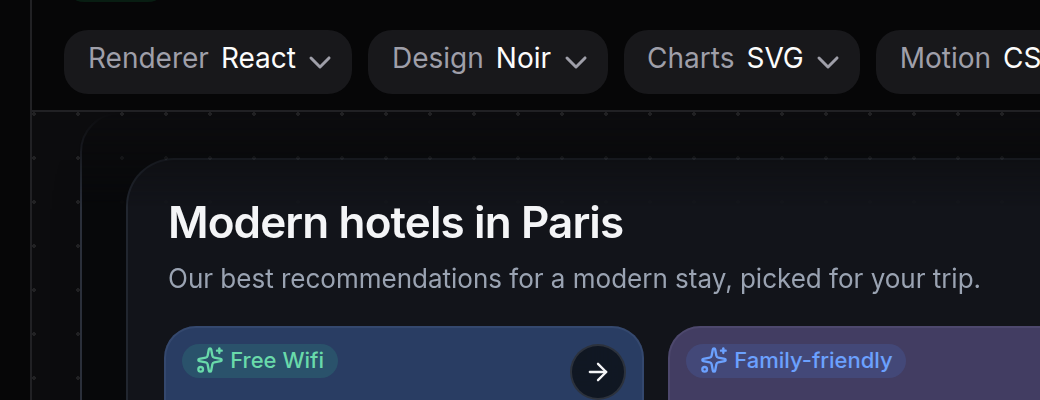
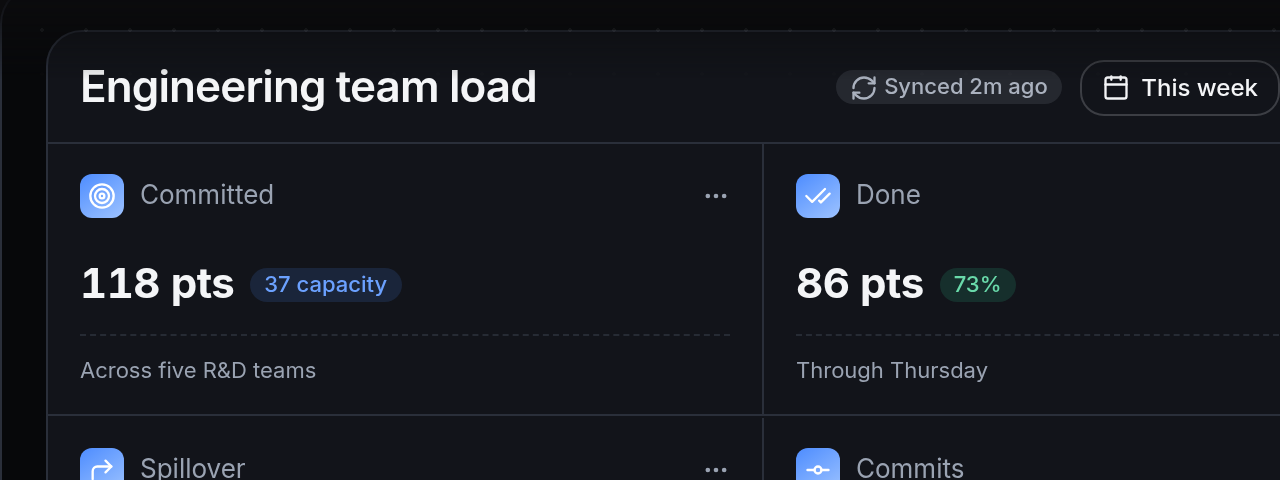
Refine Live Playground promo to match the reference card
Use the Dashboards demo as the preview, restore shiny sparkles and the
purple curve arrow, and switch the title to “Try it in Live Playground”.

diff --git a/apps/playground/src/ui/LivePlaygroundPromo.tsx b/apps/playground/src/ui/LivePlaygroundPromo.tsx
@@ -1,5 +1,5 @@
 import { ExternalLink } from "lucide-react"
-import { useState, type KeyboardEvent, type MouseEvent } from "react"
+import { useId, useState, type KeyboardEvent, type MouseEvent } from "react"
 
 /** Configurable target for the promo CTA. Prefer `onOpen` in-app; `href` for an external tab. */
 export const LIVE_PLAYGROUND_PROMO = {
@@ -20,9 +20,101 @@ export interface LivePlaygroundPromoProps {
   href?: string
 }
 
+/** Pair of shiny sparkles matching the reference promo. */
+function PromoSparks(props: { className?: string }) {
+  const id = useId().replace(/:/g, "")
+  const fill = `pg-promo-spark-${id}`
+  return (
+    <svg
+      viewBox="0 0 22 18"
+      width="18"
+      height="15"
+      className={props.className}
+      fill="none"
+      aria-hidden="true"
+    >
+      <path
+        d="M7.2 1.2 8.4 5.1l3.9 1.2-3.9 1.2-1.2 3.9-1.2-3.9L2.1 6.3l3.9-1.2L7.2 1.2Z"
+        fill={`url(#${fill})`}
+      />
+      <path
+        d="M16.4 0.6 17.2 3.2l2.6.8-2.6.8-.8 2.6-.8-2.6-2.6-.8 2.6-.8.8-2.6Z"
+        fill={`url(#${fill})`}
+        opacity="0.92"
+      />
+      <path
+        d="M18.8 9.2 19.3 10.9l1.7.5-1.7.5-.5 1.7-.5-1.7-1.7-.5 1.7-.5.5-1.7Z"
+        fill={`url(#${fill})`}
+        opacity="0.75"
+      />
+      <defs>
+        <linearGradient id={fill} x1="2" y1="1" x2="18" y2="14" gradientUnits="userSpaceOnUse">
+          <stop stopColor="#FFE08A" />
+          <stop offset="0.55" stopColor="#F5C84A" />
+          <stop offset="1" stopColor="#E8A317" />
+        </linearGradient>
+      </defs>
+    </svg>
+  )
+}
+
+/** Soft hand-drawn purple arrow pointing at the CTA. */
+function PromoCurveArrow(props: { className?: string }) {
+  const id = useId().replace(/:/g, "")
+  const stroke = `pg-promo-curve-${id}`
+  const fill = `pg-promo-curve-fill-${id}`
+  return (
+    <svg
+      viewBox="0 0 120 72"
+      width="120"
+      height="72"
+      className={props.className}
+      fill="none"
+      aria-hidden="true"
+    >
+      <path
+        d="M8 54c18-2 34-18 42-34 6-12 18-22 36-24"
+        stroke={`url(#${stroke})`}
+        strokeWidth="1.6"
+        strokeLinecap="round"
+        strokeLinejoin="round"
+      />
+      <path
+        d="M74 8c6 1 12 4 14 8"
+        stroke={`url(#${stroke})`}
+        strokeWidth="1.6"
+        strokeLinecap="round"
+      />
+      <path
+        d="M86 4l6 10-11 1"
+        stroke={`url(#${stroke})`}
+        strokeWidth="1.6"
+        strokeLinecap="round"
+        strokeLinejoin="round"
+      />
+      <path
+        d="M18 58l1.2 3.8 3.8 1.2-3.8 1.2L18 68l-1.2-3.8-3.8-1.2 3.8-1.2L18 58Z"
+        fill={`url(#${fill})`}
+        opacity="0.9"
+      />
+      <defs>
+        <linearGradient id={stroke} x1="8" y1="54" x2="96" y2="4" gradientUnits="userSpaceOnUse">
+          <stop stopColor="#B57CFF" stopOpacity="0.35" />
+          <stop offset="0.55" stopColor="#9B6CFF" stopOpacity="0.85" />
+          <stop offset="1" stopColor="#7C5CFF" />
+        </linearGradient>
+        <linearGradient id={fill} x1="14" y1="58" x2="24" y2="68" gradientUnits="userSpaceOnUse">
+          <stop stopColor="#C9A0FF" />
+          <stop offset="1" stopColor="#8B6CFF" />
+        </linearGradient>
+      </defs>
+    </svg>
+  )
+}
+
 /**
  * Contextual promo under a finished demo surface — product-oriented, not a banner ad.
- * Layout: Preview | Content | Action.
+ * Layout: Preview | Content | Action (+ decorative curve).
  */
 export function LivePlaygroundPromo(props: LivePlaygroundPromoProps) {
   const previewSrc = props.previewSrc ?? LIVE_PLAYGROUND_PROMO.previewSrc
@@ -76,9 +168,7 @@ export function LivePlaygroundPromo(props: LivePlaygroundPromoProps) {
 
       <div className="pg-live-promo-content">
         <p className="pg-live-promo-title">
-          <span aria-hidden="true" className="pg-live-promo-spark">
-            ✦
-          </span>
+          <PromoSparks className="pg-live-promo-spark" />
           <span className="min-w-0 truncate">
             {props.titlePrefix}
             <span className="pg-live-promo-accent">{props.titleAccent}</span>
@@ -88,21 +178,24 @@ export function LivePlaygroundPromo(props: LivePlaygroundPromoProps) {
         <p className="pg-live-promo-body">{props.body}</p>
       </div>
 
-      <button
-        type="button"
-        data-pg="live-promo-cta"
-        className="pg-live-promo-cta"
-        onClick={(event) => {
-          event.stopPropagation()
-          open()
-        }}
-      >
-        <ExternalLink className="size-3.5 shrink-0" aria-hidden="true" />
-        <span>{props.action}</span>
-        <span className="pg-live-promo-arrow" aria-hidden="true">
-          →
-        </span>
-      </button>
+      <div className="pg-live-promo-action">
+        <PromoCurveArrow className="pg-live-promo-curve" />
+        <button
+          type="button"
+          data-pg="live-promo-cta"
+          className="pg-live-promo-cta"
+          onClick={(event) => {
+            event.stopPropagation()
+            open()
+          }}
+        >
+          <ExternalLink className="size-3.5 shrink-0" aria-hidden="true" />
+          <span>{props.action}</span>
+          <span className="pg-live-promo-arrow" aria-hidden="true">
+            →
+          </span>
+        </button>
+      </div>
     </div>
   )
 }

diff --git a/apps/playground/src/i18n.ts b/apps/playground/src/i18n.ts
@@ -198,11 +198,10 @@ const en: Copy = {
   connectNote: "Connect a model above to get a reply.",
   demoNote:
     "In a live session this message goes back to the agent, together with the interface's state, and the agent answers with the next interface.",
-  liveGuideTitlePrefix: "Take it further with ",
+  liveGuideTitlePrefix: "Try it in ",
   liveGuideTitleAccent: "Live Playground",
   liveGuideTitleSuffix: "",
-  liveGuideBody:
-    "Explore interactive examples, customize your UI, and discover what's possible with Open Intelligent UI.",
+  liveGuideBody: "Explore more interactive examples, customize the theme, and experience the full capabilities.",
   liveGuideAction: "Open Playground",
   providerOpenAI: "OpenAI",
   providerAnthropic: "Anthropic",
@@ -339,8 +338,8 @@ const zh: Copy = {
   demoNote: "在实时会话里，这条消息会连同界面状态一起交还给智能体，由它回答下一个界面。",
   liveGuideTitlePrefix: "在 ",
   liveGuideTitleAccent: "Live Playground",
-  liveGuideTitleSuffix: " 里走得更远",
-  liveGuideBody: "探索更多可交互示例，切换设计与主题，亲手体验 Open Intelligent UI 能做到什么。",
+  liveGuideTitleSuffix: " 里试试",
+  liveGuideBody: "探索更多可交互示例，自定义主题，完整体验 Open Intelligent UI 的能力。",
   liveGuideAction: "打开 Playground",
   providerOpenAI: "OpenAI",
   providerAnthropic: "Anthropic",

diff --git a/apps/playground/src/app.css b/apps/playground/src/app.css
@@ -240,9 +240,8 @@ body {
 
 .pg-live-promo-spark {
   flex: 0 0 auto;
-  color: color-mix(in oklab, #f5d76e 80%, white 20%);
-  font-size: 14px;
-  line-height: 1;
+  display: block;
+  filter: drop-shadow(0 0 4px color-mix(in oklab, #f5c84a 55%, transparent));
 }
 
 .pg-live-promo-accent {
@@ -261,8 +260,29 @@ body {
   overflow: hidden;
 }
 
-.pg-live-promo-cta {
+.pg-live-promo-action {
+  position: relative;
   flex: 0 0 auto;
+  display: flex;
+  align-items: center;
+  justify-content: flex-end;
+  min-width: 168px;
+  padding-left: 8px;
+}
+
+.pg-live-promo-curve {
+  position: absolute;
+  right: 118px;
+  bottom: -6px;
+  width: 108px;
+  height: 64px;
+  pointer-events: none;
+  opacity: 0.95;
+}
+
+.pg-live-promo-cta {
+  position: relative;
+  z-index: 1;
   display: inline-flex;
   align-items: center;
   gap: 6px;
@@ -309,6 +329,12 @@ body {
     width: 132px;
     height: 56px;
   }
+
+  .pg-live-promo-curve {
+    right: 100px;
+    width: 84px;
+    height: 52px;
+  }
 }
 
 @media (max-width: 520px) {
@@ -322,6 +348,16 @@ body {
 
   .pg-live-promo-title {
     white-space: normal;
+  }
+
+  .pg-live-promo-action {
+    width: 100%;
+    min-width: 0;
+    padding-left: 0;
+  }
+
+  .pg-live-promo-curve {
+    display: none;
   }
 
   .pg-live-promo-cta {
